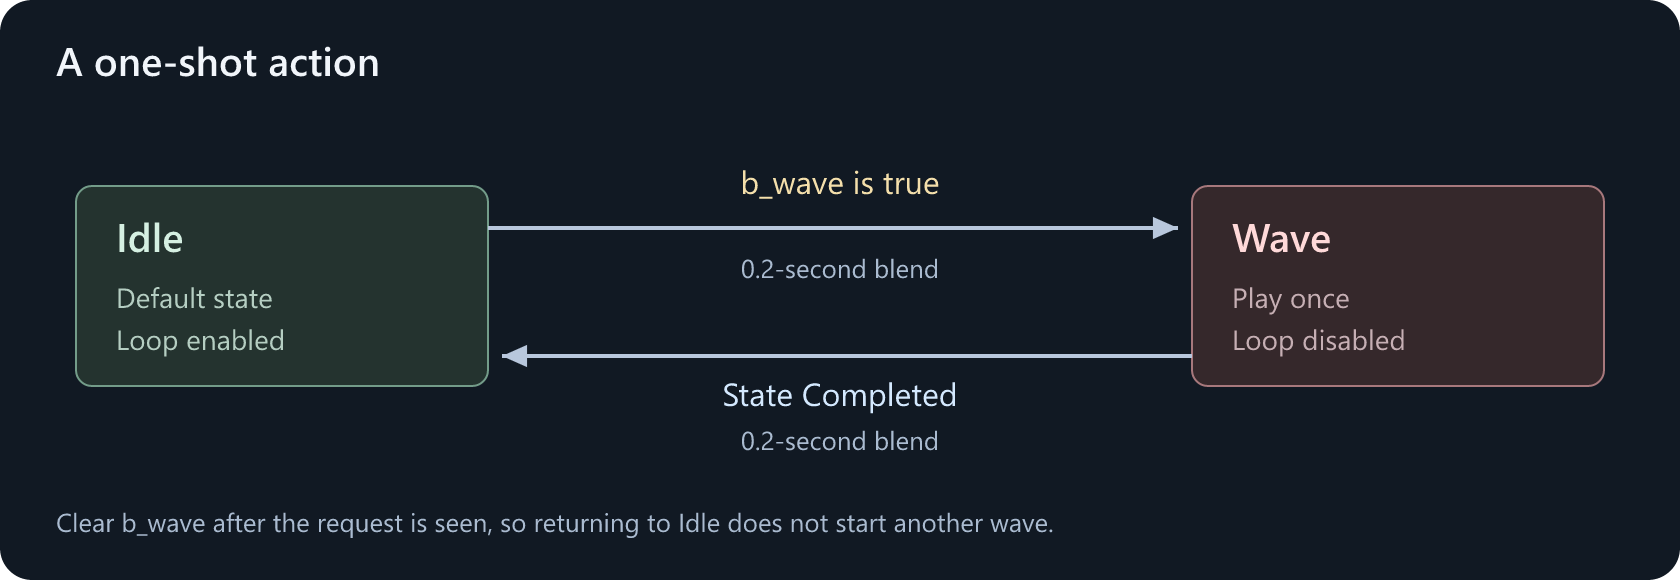
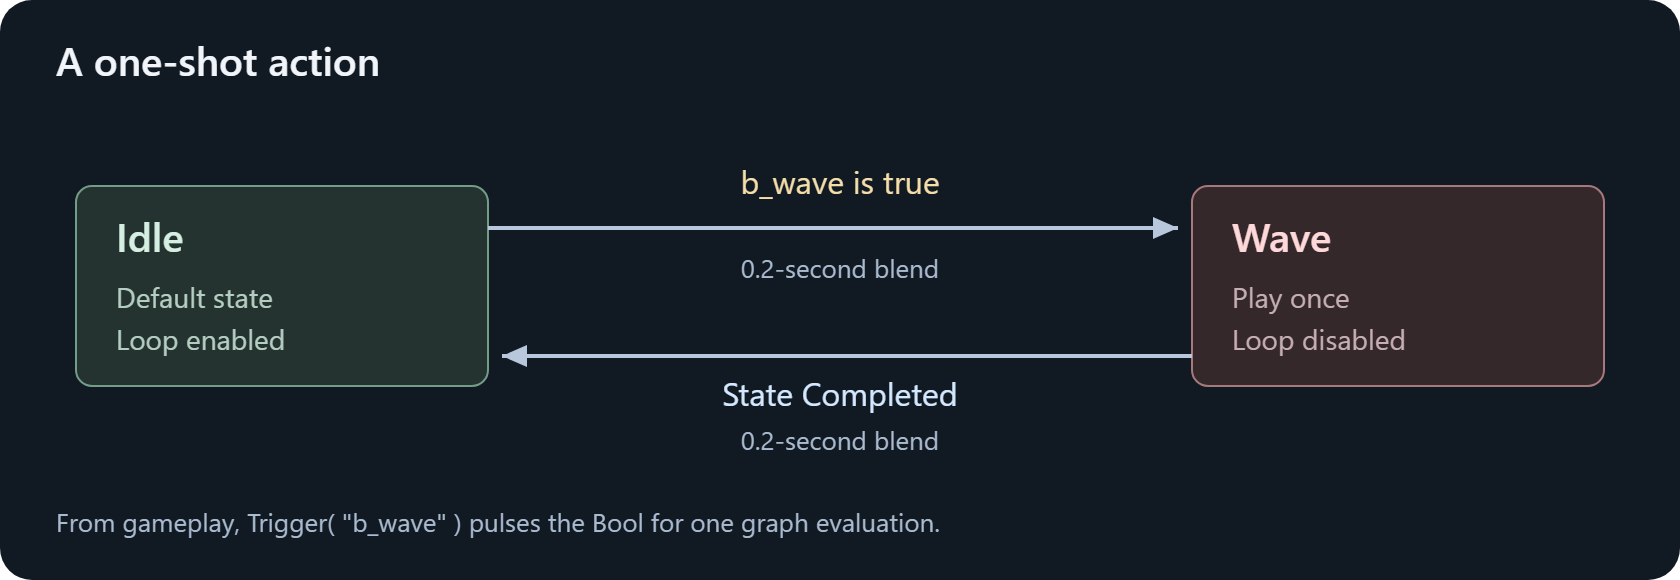
Document one-shot AG2 parameter triggers

diff --git a/docs/animation/animgraph/moving-from-ag1.md b/docs/animation/animgraph/moving-from-ag1.md
@@ -20,7 +20,7 @@ Start with one character and one working behavior. Keep the old setup available 
 | `Sandbox.AnimationGraph` / renderer `AnimationGraph` | `Sandbox.Animation.Graph` / renderer `Animation.Graph` |
 | Renderer `Set(...)` or `Parameters.Set(...)` | `Animation.Parameters.Set(...)` |
 | `SceneModel.SetAnimParameter(...)` | `SceneModel.Animation.Parameters.Set(...)` |
-| Auto-reset action/gesture parameters | Explicitly clear action bools after an animation update |
+| Auto-reset action/gesture parameters | `Animation.Parameters.Trigger( name )` on a Bool input |
 | Direct Playback node and API | An authored action state, or an External Graph slot for runtime-selected behavior |
 
 **Assigning an `.ag` does not redirect old API calls to it.** Legacy setters still target AG1.
@@ -56,6 +56,16 @@ Renderer.Animation.Parameters.Set( "holdtype", "rifle" );
 ```
 
 Audit the components writing parameters too. **CitizenAnimationHelper still uses the legacy API.** The standard PlayerController has an AG2 path, but a custom driver needs updating explicitly.
+
+## Migrate a jump trigger
+
+For a custom jump driver, declare a Bool named `b_jump` with a default of `false` in the AG2 graph. Use it as the condition on the transition into the jump state. Replace the legacy `Renderer.Set( "b_jump", true )` call with:
+
+```csharp
+Renderer.Animation.Parameters.Trigger( "b_jump" );
+```
+
+Call it when the jump starts. The runtime exposes the pulse for one graph evaluation and handles clearing it. When you use the standard `PlayerController`, it already supplies the request to graphs that declare `b_jump`. [One-shot requests](/animation/animgraph/parameters-and-code.md#one-shot-requests)
 
 ## Rebuild behavior, not the old wiring
 
@@ -106,7 +116,7 @@ External graphs do not inherit matching parent control-parameter values. Keep th
 
 **External Pose is not Direct Playback.** It is for externally computed poses, not selecting an animation clip.
 
-You do not need to author a separate `.ag` for every runtime-selected clip. The [external-graph guide](/animation/animgraph/external-graphs.md) includes a complete clip player that builds a child graph in C#, checks evaluated playback completion, and disconnects it. The [runtime state-machine guide](/animation/animgraph/runtime-graph-builder/state-machines.md) also shows an explicit one-shot bool driver.
+You do not need to author a separate `.ag` for every runtime-selected clip. The [external-graph guide](/animation/animgraph/external-graphs.md) includes a complete clip player that builds a child graph in C#, checks evaluated playback completion, and disconnects it.
 
 ## Check the differences that are easy to miss
 

diff --git a/docs/animation/animgraph/parameters-and-code.md b/docs/animation/animgraph/parameters-and-code.md
@@ -73,11 +73,21 @@ Do not use persisted parameter writes as a substitute for runtime movement updat
 
 ## One-shot requests
 
-An action bool such as `b_wave` stays at its last value until you change it. Keep it true for an animation update, then clear it on the next one.
+Declare a Bool control parameter with a default of `false` and connect it to a transition condition. When gameplay requests the action, pulse that Bool by name.
 
-Do not set it true and immediately false in the same method: the graph may never see the true value. Also decide what should happen if another request arrives during the action; the [basic wave graph](/animation/animgraph/states-and-transitions.md) ignores requests while already waving.
+```csharp
+Renderer.Animation.Parameters.Trigger( "b_wave" );
+```
 
-The [runtime state-machine guide](/animation/animgraph/runtime-graph-builder/state-machines.md) includes a wave graph and a C# request driver. For runtime-selected clips without a request bool, use the [external clip player](/animation/animgraph/external-graphs.md).
+`Trigger` makes the Bool read as `true` for the next live graph evaluation, then restores its regular value. A skipped evaluation leaves the pulse pending. Multiple calls for the same Bool before evaluation count as one pulse. Use `Set` for values that need to stay set, such as `b_grounded`.
+
+Use `TryTrigger` for optional inputs. It returns `false` when there is no running AG2 graph or the named parameter is missing or has a different type. `Trigger` throws in those cases.
+
+The state machine decides how to respond to a pulse. The wave example only accepts the request from Idle. If the graph evaluates the pulse while already waving, the pulse expires and the current wave continues. [States and Transitions](/animation/animgraph/states-and-transitions.md)
+
+Pending pulses belong to the current graph instance. `Reset()` clears all pending pulses, and `Clear( name )` clears the pulse for that parameter. Ending recording playback or replacing the graph instance also clears pending pulses.
+
+For a wave graph built in C#, see [State Machines](/animation/animgraph/runtime-graph-builder/state-machines.md). For clips chosen at runtime, see the [external clip player](/animation/animgraph/external-graphs.md#play-a-runtime-selected-one-shot).
 
 ## Build a graph in C#
 

diff --git a/docs/animation/animgraph/runtime-graph-builder/state-machines.md b/docs/animation/animgraph/runtime-graph-builder/state-machines.md
@@ -52,11 +52,9 @@ The first added state is the default: idle. Setting `b_wave` true starts the tra
 
 `Completed( wave )` instead uses a zero lead time: it waits until completion before starting the return blend. The builder does not automatically copy the transition duration into this condition.
 
-## Clear the request in game code
+## Trigger the wave from gameplay
 
-**The graph does not reset `b_wave`.** If it stays true, the action can start again when idle is reached.
-
-For a normally updating renderer, this small driver turns calls to `Wave()` into one-update pulses:
+Assign a renderer running the wave graph and call `Wave()` when gameplay requests the action.
 
 ```csharp
 using Sandbox;
@@ -65,32 +63,14 @@ public sealed class WaveRequestExample : Component
 {
     [Property] public SkinnedModelRenderer Renderer { get; set; }
 
-    private bool pending;
-
     public void Wave()
     {
-        pending = true;
-    }
-
-    protected override void OnUpdate()
-    {
-        Renderer.Animation.Parameters.Set( "b_wave", pending );
-        pending = false;
-    }
-
-    protected override void OnDisabled()
-    {
-        pending = false;
-
-        if ( Renderer.IsValid() && Renderer.Animation.IsValid )
-            Renderer.Animation.Parameters.Set( "b_wave", false );
+        Renderer.Animation.Parameters.Trigger( "b_wave" );
     }
 }
 ```
 
-Assign a renderer running the wave graph. Call `Wave()` from gameplay; the following update clears the input unless another request arrives. Setting true and false back-to-back in the same method would not give the graph an opportunity to observe true.
-
-This simple driver assumes the graph evaluates between component updates. If your game suspends or throttles animation evaluation, retain requests until an animation evaluation can consume them rather than discarding them on a wall-clock timer.
+The controller applies the pulse on the next graph evaluation, even if animation updates are throttled. [One-shot requests](/animation/animgraph/parameters-and-code.md#one-shot-requests)
 
 This graph does not queue or restart a wave while already waving. Decide those rules explicitly for your game. For runtime-selected one-shots without a bool request, use the [external clip player](/animation/animgraph/external-graphs.md).
 

diff --git a/docs/animation/animgraph/states-and-transitions.md b/docs/animation/animgraph/states-and-transitions.md
@@ -59,7 +59,7 @@ By default, State Completed becomes true early enough for the transition to **fi
 
 In the preview, turn `b_wave` on to enter Wave, then turn it off while the wave plays. The character should finish the animation and blend back to Idle.
 
-If you leave `b_wave` true, the character can enter Wave again after returning. **AG2 bools do not automatically reset.** In game code, treat an action request as a pulse: keep it true for an animation update, then clear it on the next one. Setting it true and false before the graph evaluates may hide the request entirely.
+From gameplay, call `Renderer.Animation.Parameters.Trigger( "b_wave" )` to pulse the same Bool for one evaluation. Keep its regular value at `false` so returning to Idle leaves the character waiting for another request. [One-shot requests](/animation/animgraph/parameters-and-code.md#one-shot-requests)
 
 This simple graph accepts wave requests only while in Idle. It does not queue requests or restart a wave already in progress.
 

diff --git a/docs/animation/animgraph/runtime-graph-builder/layers-and-masks.md b/docs/animation/animgraph/runtime-graph-builder/layers-and-masks.md
@@ -81,7 +81,7 @@ Pass `action` itself to `AddLayer`, **not `action.Build()`**. The `StateMachineB
 
 A state-machine layer keeps evaluating while its weight is zero, so it can leave Off and finish transitions. Treating the same machine as an ordinary layer can prevent that behavior.
 
-Off contributes no action pose. It does not play an idle over the torso. The base movement continues underneath, and the wave keeps its own timing. Clear the request as described in [State Machines](/animation/animgraph/runtime-graph-builder/state-machines.md).
+Off contributes no action pose. It does not play an idle over the torso. The base movement continues underneath, and the wave keeps its own timing. Pulse the request from gameplay with `Trigger`. [State Machines](/animation/animgraph/runtime-graph-builder/state-machines.md#trigger-the-wave-from-gameplay)
 
 ## Layer settings
 
